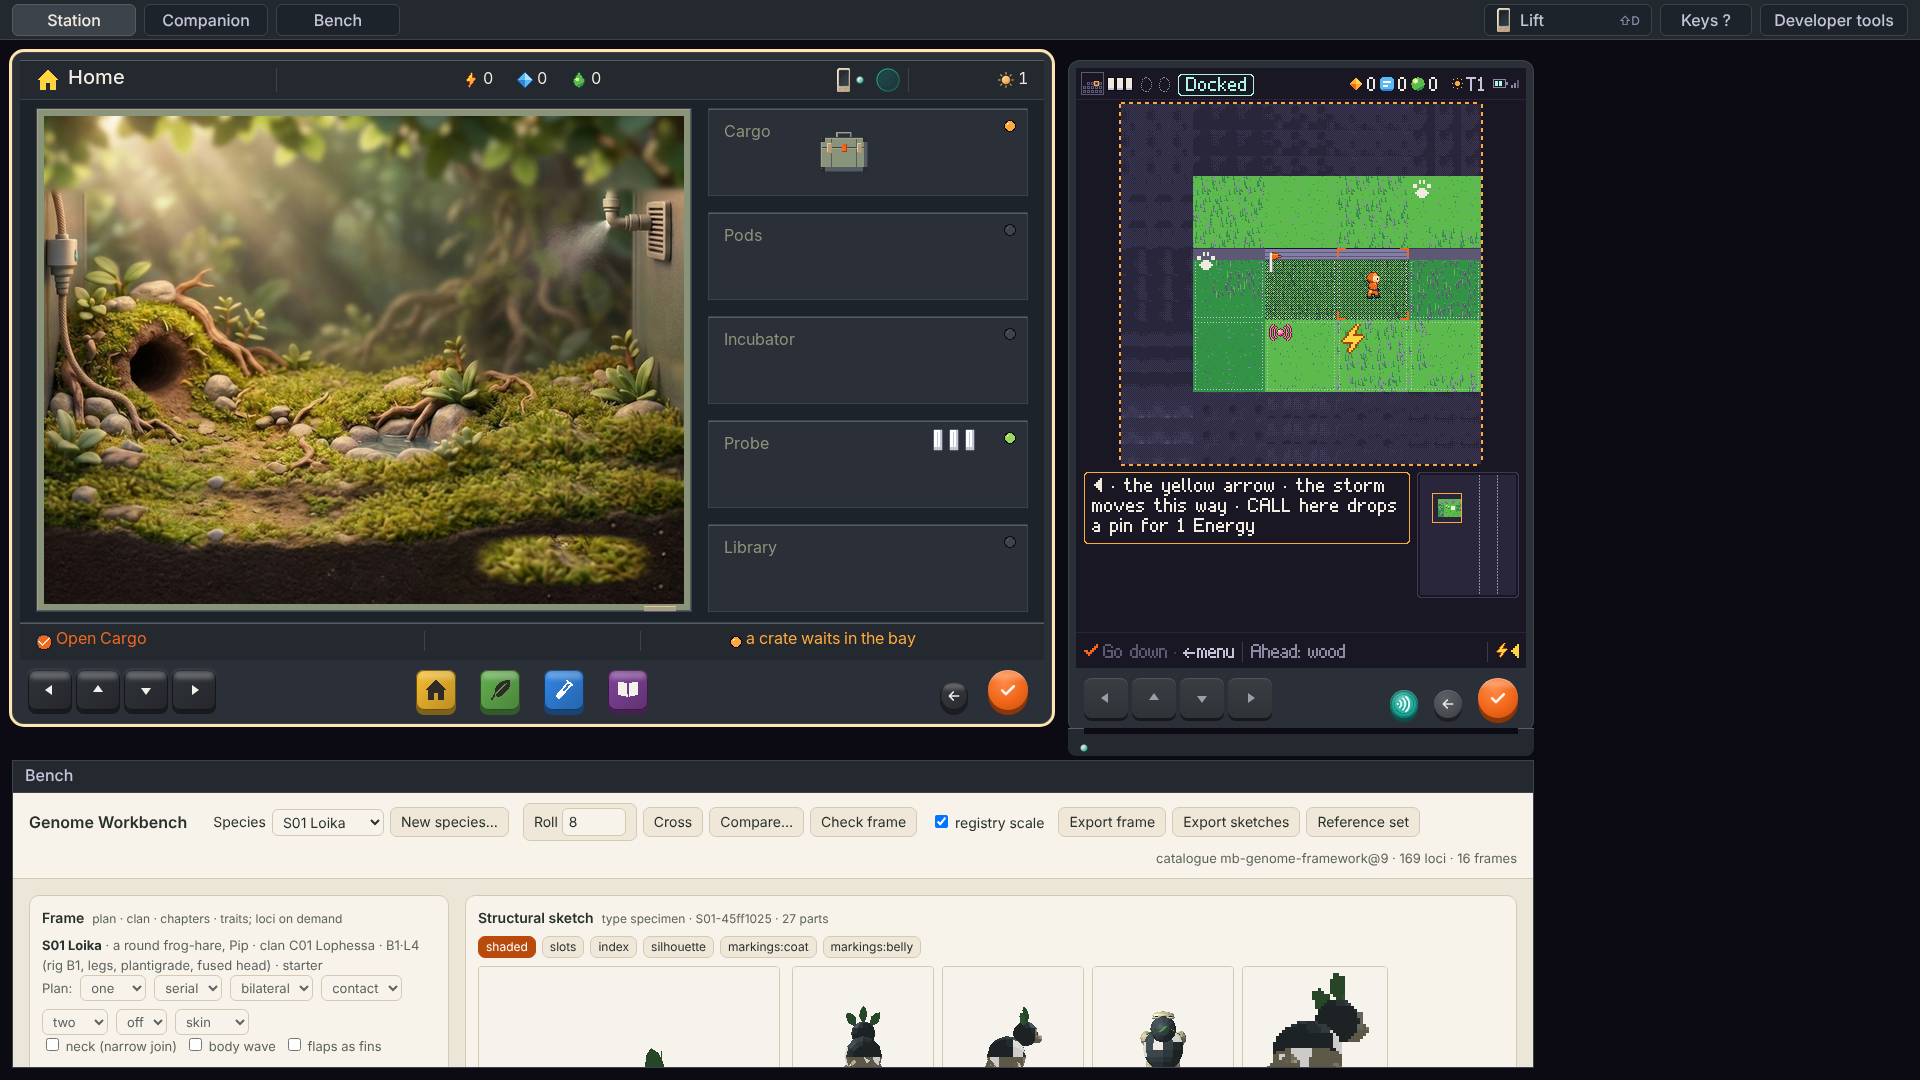
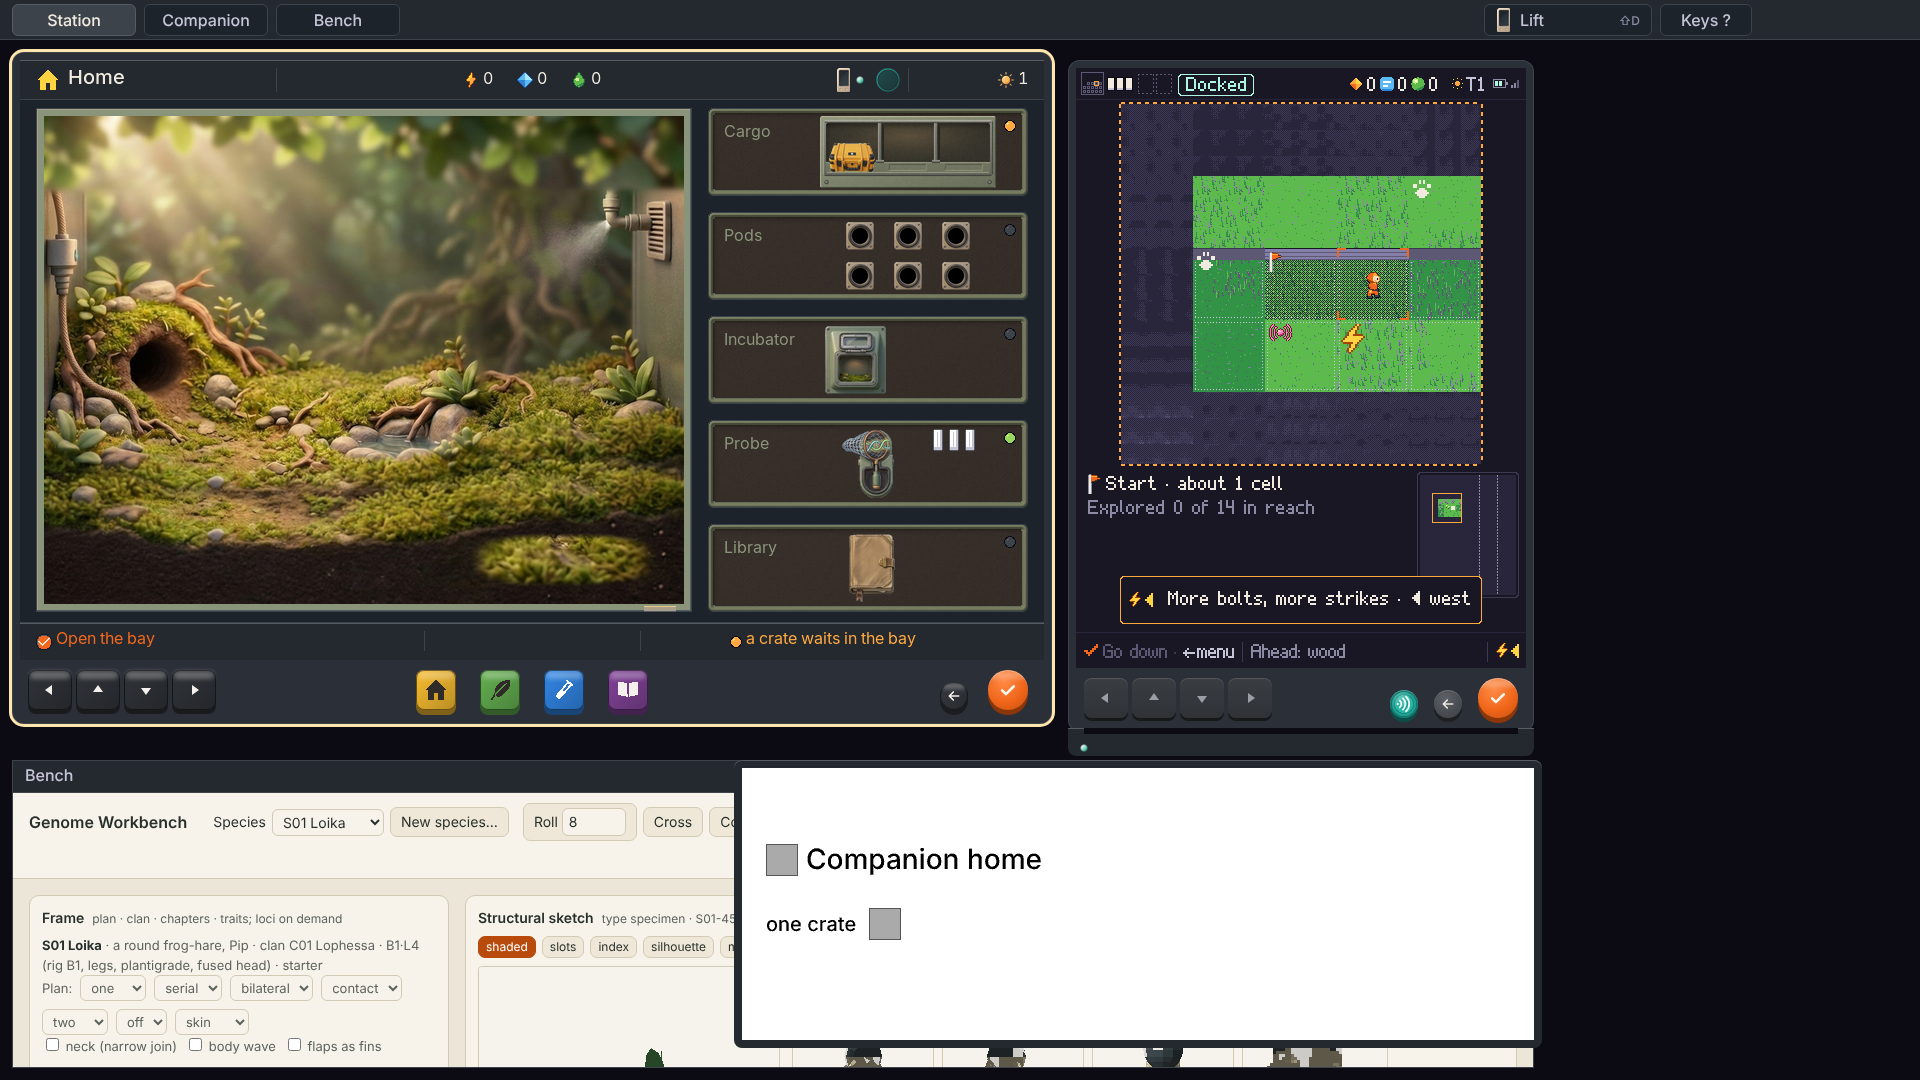
The Caddy's screen on the play page: a sheet raised from the cradle
Mounted as UI/UX ruled (T-20261016-109): in the wide tier with the bench
shelf, a sheet at 734, 760, 808, 288 lp with the 792 x 272 view at
742, 768, 1 lp per view pixel, over the right of the shelf; nothing moves.
It rises at each seat or lift and at the opening's end (160 ms, the seat's
ease; a cut under reduced motion), stays 6000 ms (a new line restarts it)
and lowers; Shift+C pins it until Shift+C again. Other tiers: the bar's
note shows the two lines as one for 4000 ms. Keys panel and README rows.

Journey K: the sheet and view rects, the docked lines, the shelf unmoved,
lowered after 6 s, Shift+C pins and lowers, two refreshes; standard tier:
no sheet, the note line, Shift+C does nothing. Captures retaken: only
play-wide-docked and play-short-companion (taken within 6 s of a dock or
lift); play-caddy-sheet added.

diff --git a/prototypes/play/index.html b/prototypes/play/index.html
@@ -95,6 +95,9 @@ iframe{border:0; display:block; background:var(--void)}
 .bk.confirm svg{stroke:#fff8ef; stroke-width:3}
 .bk img{width:calc(var(--f) * 24px); height:calc(var(--f) * 24px); image-rendering:pixelated; pointer-events:none}
 /* the bench */
+#caddySheet{position:fixed; background:var(--bar); box-shadow:inset 0 calc(var(--f) * 1px) 0 var(--bevel); border-radius:calc(var(--f) * 8px); overflow:hidden; z-index:12}   /* the Caddy's screen, raised from the cradle (T-20261016-109): the cradle's body colour, an 8 lp bezel */
+#caddySheet.hidden{display:none}
+#caddyView{position:absolute; image-rendering:pixelated; display:block}
 #bench{position:fixed; background:var(--bar); border:calc(var(--f) * 1px) solid var(--hairline); z-index:10}
 #bench header{position:absolute; left:0; top:0; right:0; border-bottom:calc(var(--f) * 1px) solid var(--hairline); color:var(--fog)}
 #bench header span{position:absolute}
@@ -140,6 +143,7 @@ iframe{border:0; display:block; background:var(--void)}
 </div>
   <div id="bench" class="hidden"><header><span id="benchTitle">Bench</span><button type="button" class="ctl" id="benchLower">Lower ↓</button></header><iframe id="fBench" title="Bench" allow=""></iframe></div>
   <button type="button" id="benchHandle" class="hidden"><span>Raise the bench ↑, or press ` until it has the keys</span></button>
+  <div id="caddySheet" class="hidden" aria-label="The Caddy's screen" role="img"><canvas id="caddyView" width="792" height="272"></canvas></div>
   <div id="dev" class="hidden"><div id="devStation"></div><pre id="devStationOut" hidden></pre><p id="observer">The Companion's Observer is on its own page.<br>Open it there, but play on one page at a time.</p></div>
 <div id="bar">
   <button type="button" class="ctl" id="tabStation">Station</button>
@@ -155,7 +159,7 @@ iframe{border:0; display:block; background:var(--void)}
   <h2>Keys</h2>
   <p>Only the device with the keys hears them. Shift keys belong to the page.</p>
   <h3>Page (any device, not while typing)</h3>
-  <dl><dt>`</dt><dd>Next device</dd><dt>Shift+`</dt><dd>Previous device</dd><dt>Shift+D</dt><dd>Dock or lift the Companion</dd><dt class="hidden" id="helpDevK">Shift+T</dt><dd class="hidden" id="helpDevD">Developer tools</dd><dt>Shift+/ (?)</dt><dd>This panel; Esc or ? closes it</dd></dl>
+  <dl><dt>`</dt><dd>Next device</dd><dt>Shift+`</dt><dd>Previous device</dd><dt>Shift+D</dt><dd>Dock or lift the Companion</dd><dt>Shift+C</dt><dd>The Caddy's screen</dd><dt class="hidden" id="helpDevK">Shift+T</dt><dd class="hidden" id="helpDevD">Developer tools</dd><dt>Shift+/ (?)</dt><dd>This panel; Esc or ? closes it</dd></dl>
   <h3>Station</h3>
   <dl><dt>← ↑ → ↓</dt><dd>Move the ring</dd><dt>Enter, Space</dt><dd>✓, what the bottom line names</dd><dt>Esc, Backspace</dt><dd>← Back one view</dd><dt>H</dt><dd>Home</dd><dt>B</dt><dd>Vivarium</dd><dt>R</dt><dd>Research</dd><dt>L</dt><dd>Library</dd></dl>
   <h3>Companion</h3>

diff --git a/prototypes/play/README.md b/prototypes/play/README.md
@@ -34,10 +34,15 @@ One device has the keys: the ring on its shell, its filled tab and, in the short
 | `` ` `` | next device: Station, Companion, Bench |
 | Shift+`` ` `` | previous device |
 | Shift+D | the Dock control |
+| Shift+C | the Caddy's screen: pins it up, or lowers it (wide tier with the bench shelf only) |
 | Shift+T | developer tools |
 | Shift+/ (?) | the keys panel |
 
 Every other key reaches the device untouched. Drawn keys press exactly as the keyboard does: `pointerdown` gives the device the keys and sends it a `keydown`, `pointerup` sends the `keyup`. They carry glyphs only; the names are `aria-label`s.
+
+## The Caddy's screen
+
+The Caddy's 792 × 272 four-gray e-paper (`src/caddy.mjs`) shows its two lines for the dock: "Companion home" with the crates, "charging", "{n} crates home" with the new pods after the opening, or "Companion out" with the partner. It is a sheet raised from the cradle at 734, 760, 808, 288 lp, the view inside it at 1 lp per view pixel, over the right of the bench shelf; nothing moves under it. It rises at each seat or lift and at the opening's end, stays 6000 ms (a new line restarts it), and lowers; Shift+C pins it up until Shift+C again. The paper redraws once per change of its lines and never animates. Only the wide tier with the bench shelf has room for it; in every other tier the bar's note shows the two lines as one for 4000 ms at the same moments. The Station posts what it needs in `mb-caddy` (`opened`, `partner`).
 
 ## The Dock control, the cradle and the seat
 
